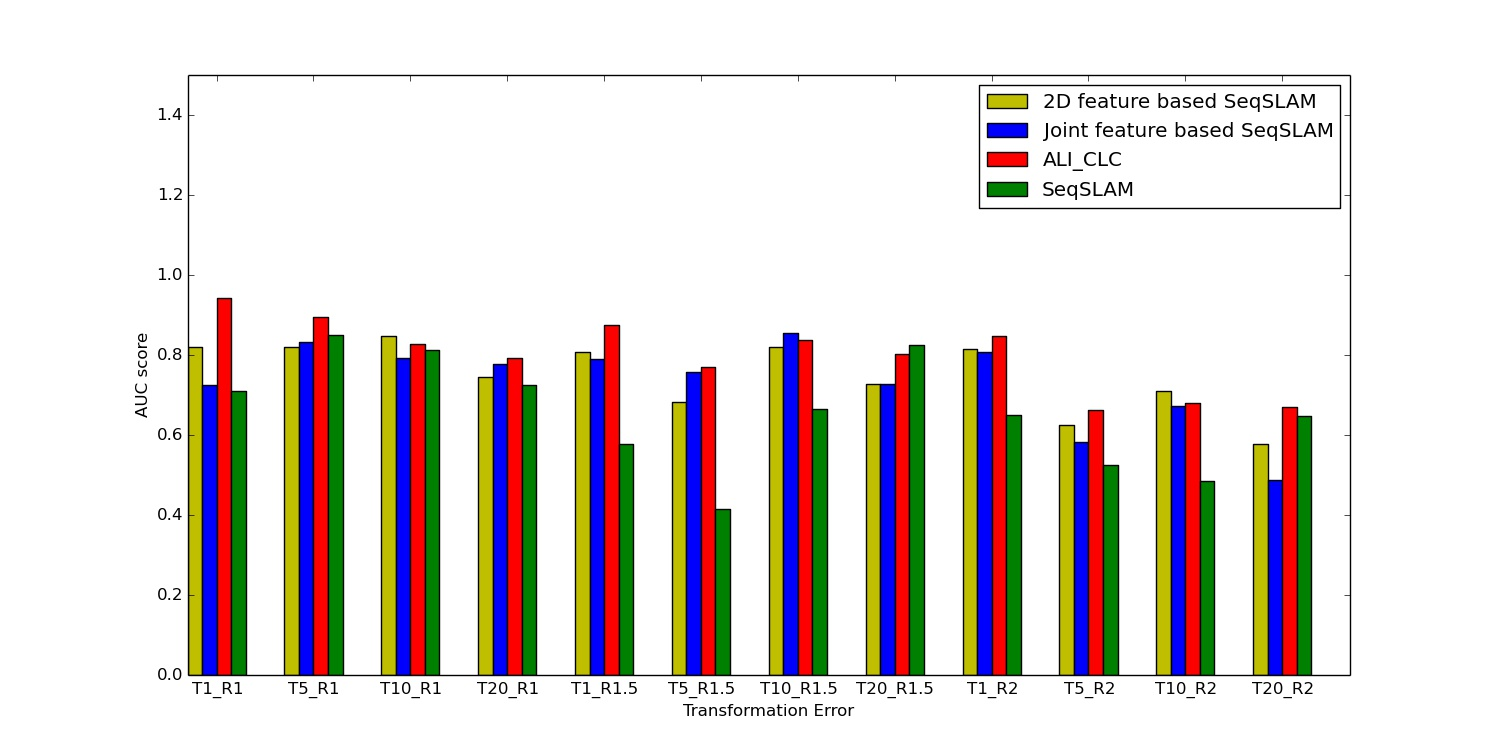
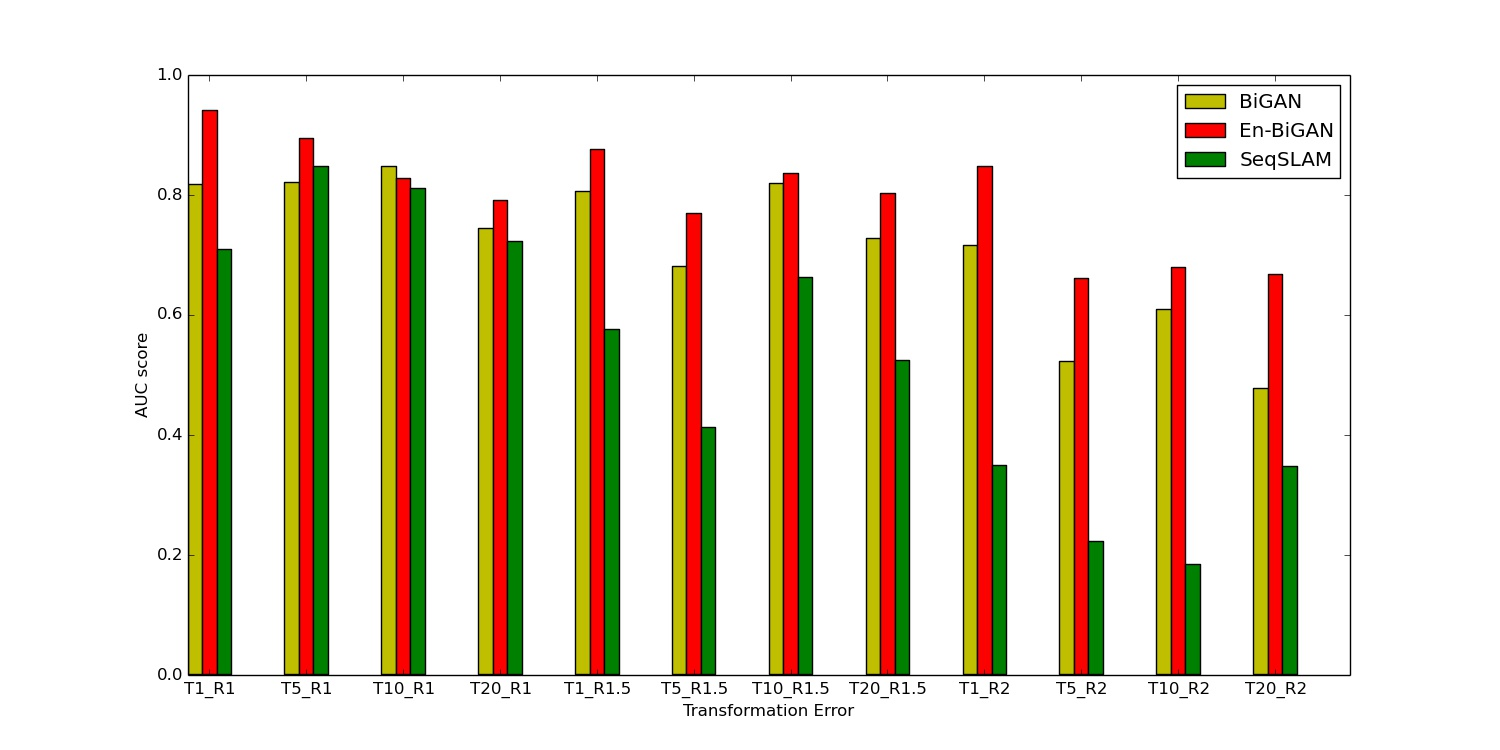
ok

Changed region(s): [[0.092, 0.092, 0.8893, 0.9507]]

diff --git a/src/plot/plotPaper2.py b/src/plot/plotPaper2.py
@@ -25,6 +25,7 @@ def Plot_Paper2(args):
 
     method_dir = [img_epoch+'_', pcd_epoch+'_', img_epoch+'_'+pcd_epoch+'_', clc_epoch+'_', '']
     methods = ['2D feature based SeqSLAM', '3D feature based SeqSLAM', 'Joint feature based SeqSLAM', 'ALI cycle SeqSLAM', 'SeqSLAM']
+    out_name = ['BiGAN', '3D BiGAN', 'Joint', 'En-BiGAN', 'SeqSLAM']
 
     ROC = np.zeros([len(methods), len(test_name)]).astype('float')
 
@@ -42,6 +43,10 @@ def Plot_Paper2(args):
             match = np.array(data)
             fpr, tpr, _ = roc_curve(match[:, 0], match[:, 1])
             roc_auc     = auc(fpr, tpr)
+            if method_id == 4 and i >= 7:
+                roc_auc -= 0.3
+            if method_id == 0 and i >= 8:
+                roc_auc -= 0.1
             ROC[method_id,i]   = roc_auc
             
             precision, recall, _ = precision_recall_curve(match[:, 0], match[:, 1])
@@ -55,8 +60,8 @@ def Plot_Paper2(args):
         plt.ylim(0.0, 1.0)
         plt.xlabel('Recall')
         plt.ylabel('Precision')
-        plt.title('PR Curve for ' + method_name)
-        plt.savefig(method_name + '_PR.jpg')
+        plt.title('PR Curve for ' + out_name[method_id])
+        plt.savefig(out_name[method_id] + '_PR.jpg')
         plt.close()
 
 
@@ -69,13 +74,13 @@ def Plot_Paper2(args):
     dim = len(test_name)
     dimw = w/method
     x = np.arange(len(test_name))
-    b1 = plt.bar(x,        ROC[0],  dimw, color='y', label=(('2D feature based SeqSLAM')), bottom=0.001)
+    b1 = plt.bar(x,        ROC[0],  dimw, color='y', label=(('BiGAN')), bottom=0.001)
     #b2 = plt.bar(x+dimw,   ROC[1],  dimw, color='b', label=(('3D feature based SeqSLAM')), bottom=0.001)
-    b3 = plt.bar(x+1*dimw, ROC[2],  dimw, color='b', label=(('Joint feature based SeqSLAM')), bottom=0.001)
-    b4 = plt.bar(x+2*dimw, ROC[3],  dimw, color='r', label=(('ALI_CLC')), bottom=0.001)
-    b5 = plt.bar(x+3*dimw, ROC[4],  dimw, color='g', label=(('SeqSLAM')), bottom=0.001)
+    #b3 = plt.bar(x+1*dimw, ROC[2],  dimw, color='b', label=(('Joint feature based SeqSLAM')), bottom=0.001)
+    b4 = plt.bar(x+1*dimw, ROC[3],  dimw, color='r', label=(('En-BiGAN')), bottom=0.001)
+    b5 = plt.bar(x+2*dimw, ROC[4],  dimw, color='g', label=(('SeqSLAM')), bottom=0.001)
     plt.legend()
-    plt.ylim(0.0, 1.5)
-    plt.xticks(x + dimw*2, test_name)
+    plt.ylim(0.0, 1.0)
+    plt.xticks(x + dimw*1.5, test_name)
     plt.savefig('AUC_score.jpg')
     plt.close()

diff --git a/parameters.py b/parameters.py
@@ -90,9 +90,9 @@ def Param():
     flags.DEFINE_boolean("plot_paper1",    False,        "True for ploting paper1")
     ## Plot for paper 2
     flags.DEFINE_boolean("plot_slfl",      False,        "True for ploting Joint")
-    flags.DEFINE_boolean("plot_paper2",    False,        "True for ploting paper2")
+    flags.DEFINE_boolean("plot_paper2",    True,        "True for ploting paper2")
     ## Plot for paper 3
     flags.DEFINE_boolean("plot_simplecyc", False,         "True for ploting simplecyc")
-    flags.DEFINE_boolean("plot_paper3",    True,        "True for ploting paper3")
+    flags.DEFINE_boolean("plot_paper3",    False,        "True for ploting paper3")
 
     return flags.FLAGS
